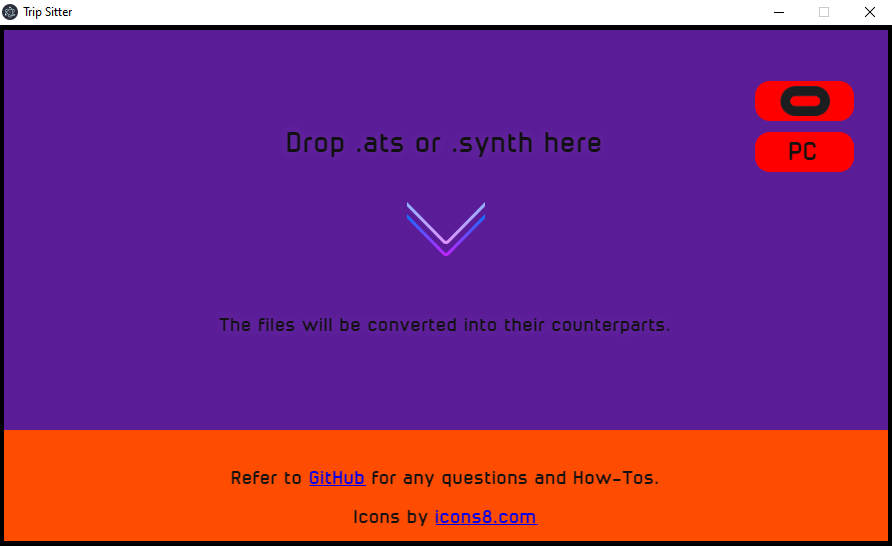
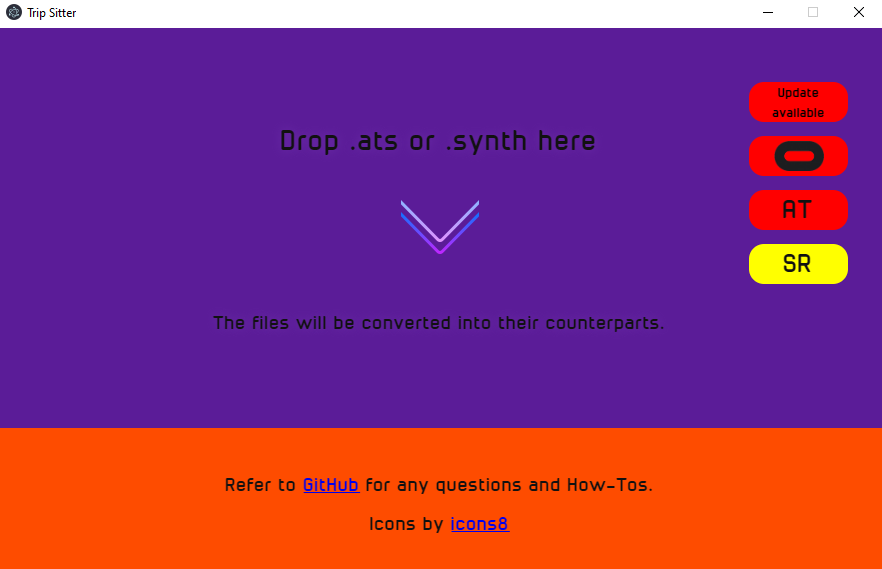
Fix visuals & upload new preview image

diff --git a/main.js b/main.js
@@ -12,16 +12,17 @@ function createWindow() {
 
   win = new BrowserWindow({
     width: 900,
-    height: 550,
+    height: 580,
     webPreferences: {
       nodeIntegration: true
     }
   })
 
   if (debug) {
-    win.setMenu(null)
     win.webContents.openDevTools()
     win.setSize(1200, 900)
+  } else {
+    win.setMenu(null)
   }
   win.setResizable(debug)
 
@@ -60,16 +61,26 @@ function createWindow() {
 
   pcCheck = setInterval(function () {
 
-    // check if PC version is installed
-    var locationPC = process.env.LOCALAPPDATA + "Low\\Kinemotik Studios\\Audio Trip\\Songs\\"
+    // check if AT is installed
+    var locationPC_AT = process.env.LOCALAPPDATA + "Low\\Kinemotik Studios\\Audio Trip\\Songs\\"
+
+    // need logic to get SR custom song location
+    var locationPC_SR = "C:\\"
 
     var fs = require('fs')
-    var pc = fs.existsSync(locationPC)
+    var at = fs.existsSync(locationPC_AT)
+    var sr = fs.existsSync(locationPC_SR)
 
-    if (pc) {
-      win.webContents.executeJavaScript(`document.getElementById('pc').style.backgroundColor = "green";`)
+    if (at) {
+      win.webContents.executeJavaScript(`document.getElementById('at').style.backgroundColor = "green";`)
     } else {
-      win.webContents.executeJavaScript(`document.getElementById('pc').style.backgroundColor = "red";`)
+      win.webContents.executeJavaScript(`document.getElementById('at').style.backgroundColor = "red";`)
+    }
+
+    if (sr) {
+      win.webContents.executeJavaScript(`document.getElementById('sr').style.backgroundColor = "yellow";`)
+    } else {
+      win.webContents.executeJavaScript(`document.getElementById('sr').style.backgroundColor = "red";`)
     }
 
   }, 2000)

diff --git a/index.html b/index.html
@@ -71,11 +71,15 @@
     }
 
     #quest {
-      top: 15%;
+      top: 20%;
     }
 
-    #pc {
-      top: 20%;
+    #at {
+      top: 30%;
+    }
+
+    #sr {
+      top: 40%;
     }
 
     #dropZone {
@@ -192,8 +196,12 @@
       <img class="status_content" src="./assets/quest.png">
     </div>
 
-    <div id="pc" class="status">
-      <a class="status_content">PC</a>
+    <div id="at" class="status">
+      <a class="status_content">AT</a>
+    </div>
+
+    <div id="sr" class="status">
+      <a class="status_content">SR</a>
     </div>
 
     <div style="text-shadow: 0 0 10px #6b2ca8;">
